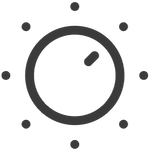
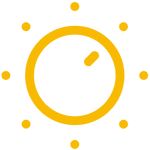
updated landing page and default pic knob

diff --git a/client/src/components/LandingModules/LandingModules.css b/client/src/components/LandingModules/LandingModules.css
@@ -11,7 +11,7 @@
   background-color: #191919;
   border-style: solid;
   border-width: thin;
-  border-color: #C12A75;
+  border-color: #191919;
 }
 
 
